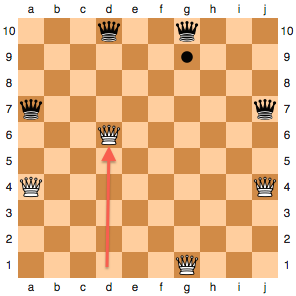
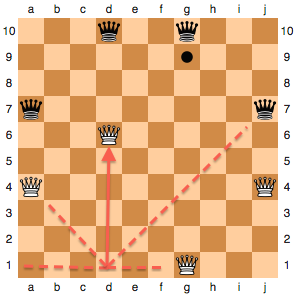
add instructions

diff --git a/languages/en.js b/languages/en.js
@@ -1,8 +1,10 @@
 window.angularTranslationsLoaded('en', {
   AMAZONS_GAME: "Game of the Amazons",
   RULES_OF_AMAZONS: "Rules of the Amazons",
-  RULES_SLIDE0: "Each player has four amazons, and a supply of arrows. White moves first, and the players alternate moves thereafter. The last player to be able to make a move wins. Each move consists of two parts (see next pages).",
-  RULES_SLIDE1: "Move one amazon one or more empty squares in a straight line (orthogonally or diagonally); it may not cross or enter a square occupied by an amazon or an arrow.",
-  RULES_SLIDE2: "The amazon shoots an arrow from its landing square to another square, using another queenlike move. An arrow, like an amazon, cannot cross or enter a square where another arrow has landed or an amazon of either color stands.",
-  CLOSE: "Close"
+  RULES_SLIDE0: "Each player has four amazons, and a supply of arrows. White moves first, and the players alternate moves thereafter.",
+  RULES_SLIDE1: "First, move one amazon one or more empty squares in a straight line (orthogonally or diagonally).",
+  RULES_SLIDE2: "Second, the amazon shoots an arrow from its landing square to another square, using another queenlike move.",
+  RULES_SLIDE3: "An arrow and an amazon cannot cross or enter a square where another arrow has landed or an amazon of either color stands.",
+  RULES_SLIDE4: "The last player to be able to make a move wins.",
+  CLOSE: "Start Game"
 });

diff --git a/languages/zh.js b/languages/zh.js
@@ -1,8 +1,10 @@
 window.angularTranslationsLoaded('zh', {
   AMAZONS_GAME: "亚马逊棋",
   RULES_OF_AMAZONS: "亚马逊棋的规则",
-  RULES_SLIDE0: "每方各4枚棋子，称为亚马逊，还有共用的棋子称为箭。白方先行，双方轮流行棋。无法行棋则输掉此游戏。每次行棋分为两步（见下页）。",
-  RULES_SLIDE1: "首先沿横线、纵线或斜线移动自己的亚马逊棋子到空棋位。移动距离没有限制，但沿途不能有亚马逊棋子或者箭棋子。",
-  RULES_SLIDE2: "然后亚马逊棋子从自己的位置沿横线、纵线或斜线以任意距离放出一枚箭到空棋位，同样沿途不能经过任何棋子。箭放定后，不能移动或移除。",
-  CLOSE: "关闭"
+  RULES_SLIDE0: "每方各4枚棋子，称为亚马逊，还有共用的棋子称为箭。白方先行，双方轮流行棋。每次行棋分为两步（见下页）。",
+  RULES_SLIDE1: "首先沿横线、纵线或斜线,将自己的亚马逊棋子，移动任意距离到一个空棋位。",
+  RULES_SLIDE2: "然后亚马逊棋子从自己的位置沿横线、纵线或斜线以任意距离放出一枚箭到空棋位。箭放定后，不能移动或移除。",
+  RULES_SLIDE3: "亚马逊棋子和箭棋子的移动途中不可以经过任一方的亚马逊棋子或者箭棋子。",
+  RULES_SLIDE4: "无法行棋则输掉此游戏。",
+  CLOSE: "开始游戏"
 });

diff --git a/game.html b/game.html
@@ -93,6 +93,30 @@
                 </tr>
               </table>
             </slide>
+            <slide>
+              <table>
+                <tr>
+                  <td>
+                    {{ 'RULES_SLIDE3' | translate }}
+                  </td>
+                  <td>
+                    <img src="imgs/HelpSlide3.png" style="height:100px;">
+                  </td>
+                </tr>
+              </table>
+            </slide>
+            <slide>
+              <table>
+                <tr>
+                  <td>
+                  {{ 'RULES_SLIDE4' | translate }}
+                  </td>
+                  <td>
+                    <img src="imgs/HelpSlide4.png" style="height:100px;">
+                  </td>
+                </tr>
+              </table>
+            </slide>
           </carousel>
         </div>
         <div class="modal-footer">

diff --git a/game.min.html b/game.min.html
@@ -78,6 +78,30 @@
                 </tr>
               </table>
             </slide>
+            <slide>
+              <table>
+                <tr>
+                  <td>
+                    {{ 'RULES_SLIDE3' | translate }}
+                  </td>
+                  <td>
+                    <img src="imgs/HelpSlide3.png" style="height:100px;">
+                  </td>
+                </tr>
+              </table>
+            </slide>
+            <slide>
+              <table>
+                <tr>
+                  <td>
+                  {{ 'RULES_SLIDE4' | translate }}
+                  </td>
+                  <td>
+                    <img src="imgs/HelpSlide4.png" style="height:100px;">
+                  </td>
+                </tr>
+              </table>
+            </slide>
           </carousel>
         </div>
         <div class="modal-footer">

diff --git a/Gruntfile.js b/Gruntfile.js
@@ -96,7 +96,9 @@ module.exports = function(grunt) {
             'imgs/QW.png',
             'imgs/HelpSlide0.png',
             'imgs/HelpSlide1.png',
-            'imgs/HelpSlide2.png'
+            'imgs/HelpSlide2.png',
+            'imgs/HelpSlide3.png',
+            'imgs/HelpSlide4.png'
           ],
           network: [
             'languages/en.js',
